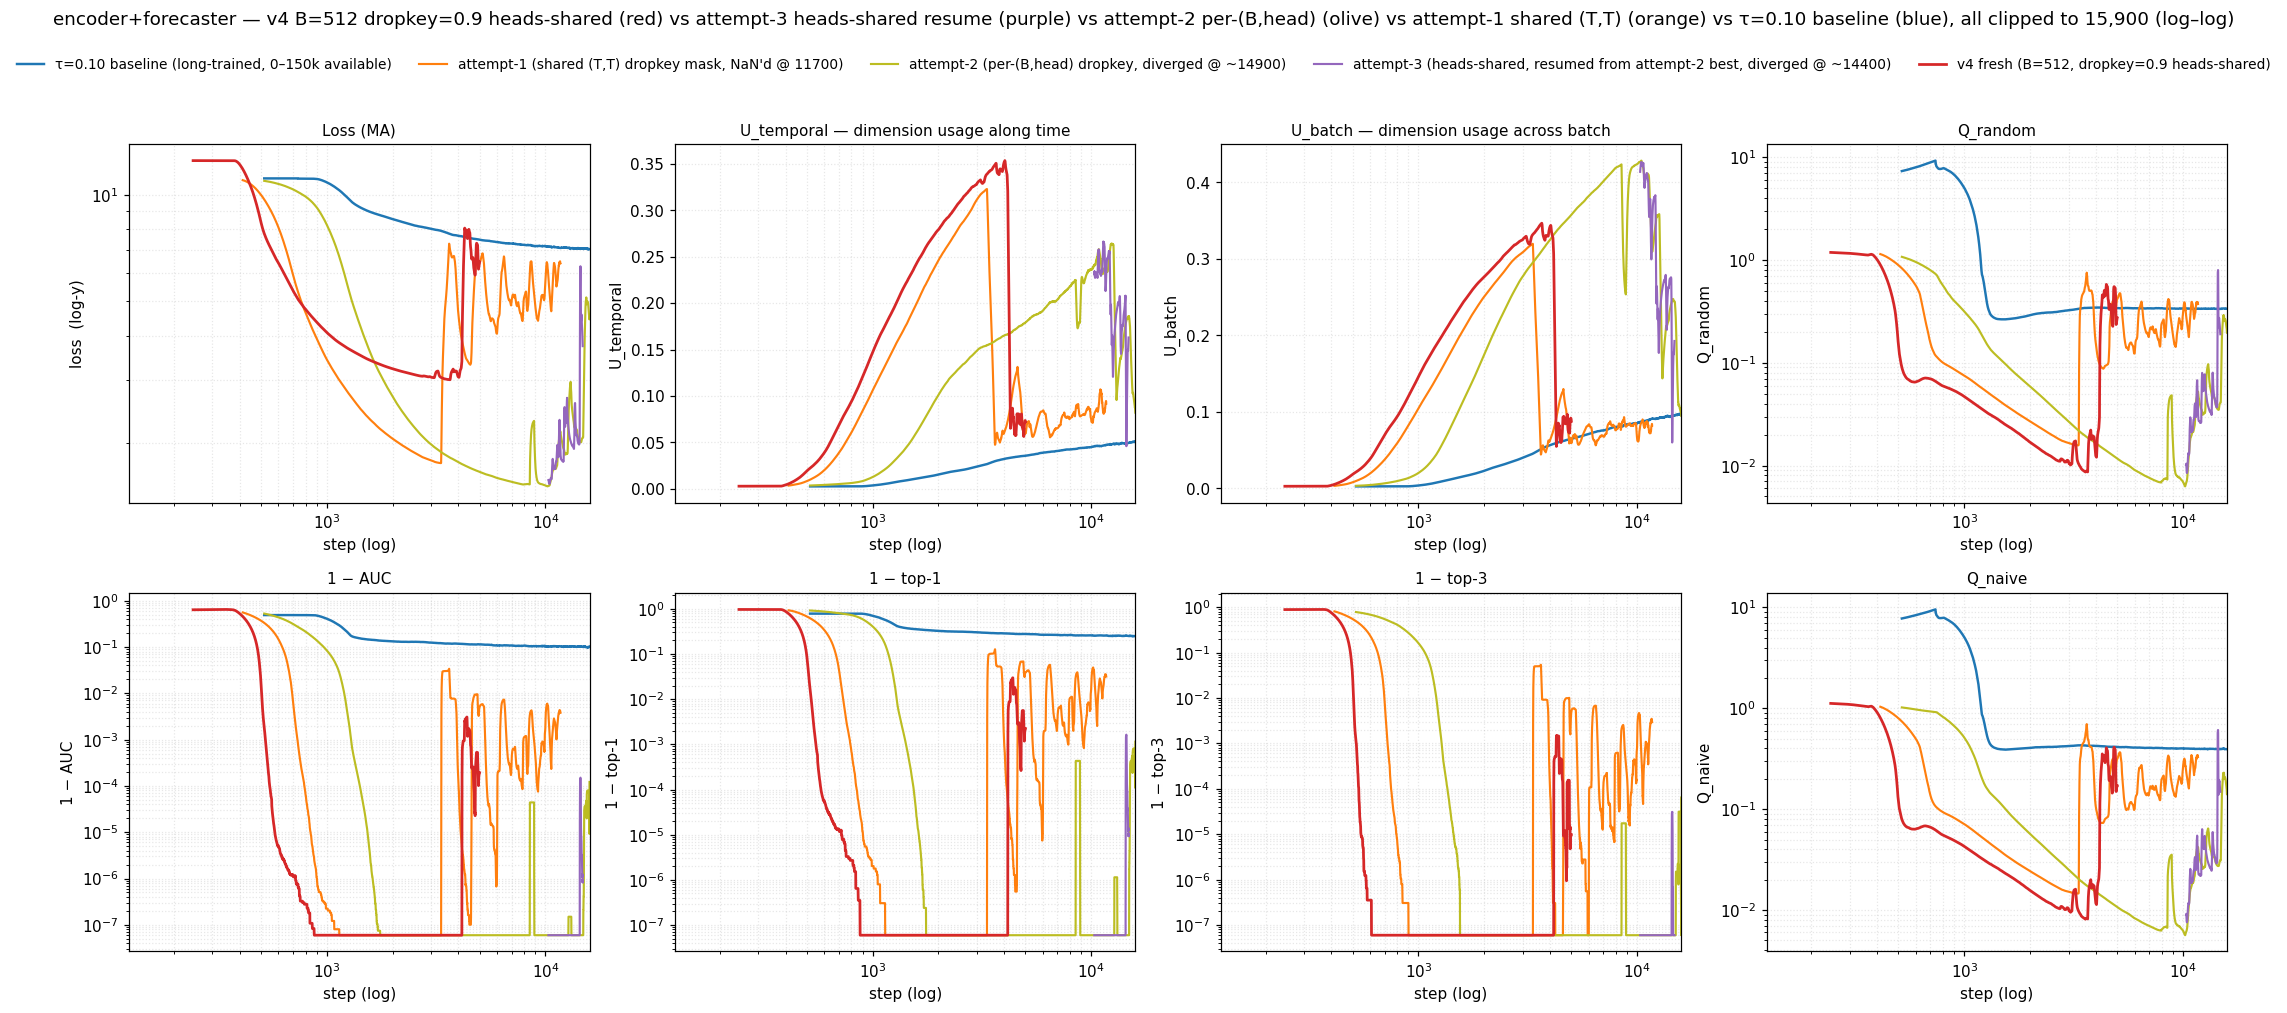
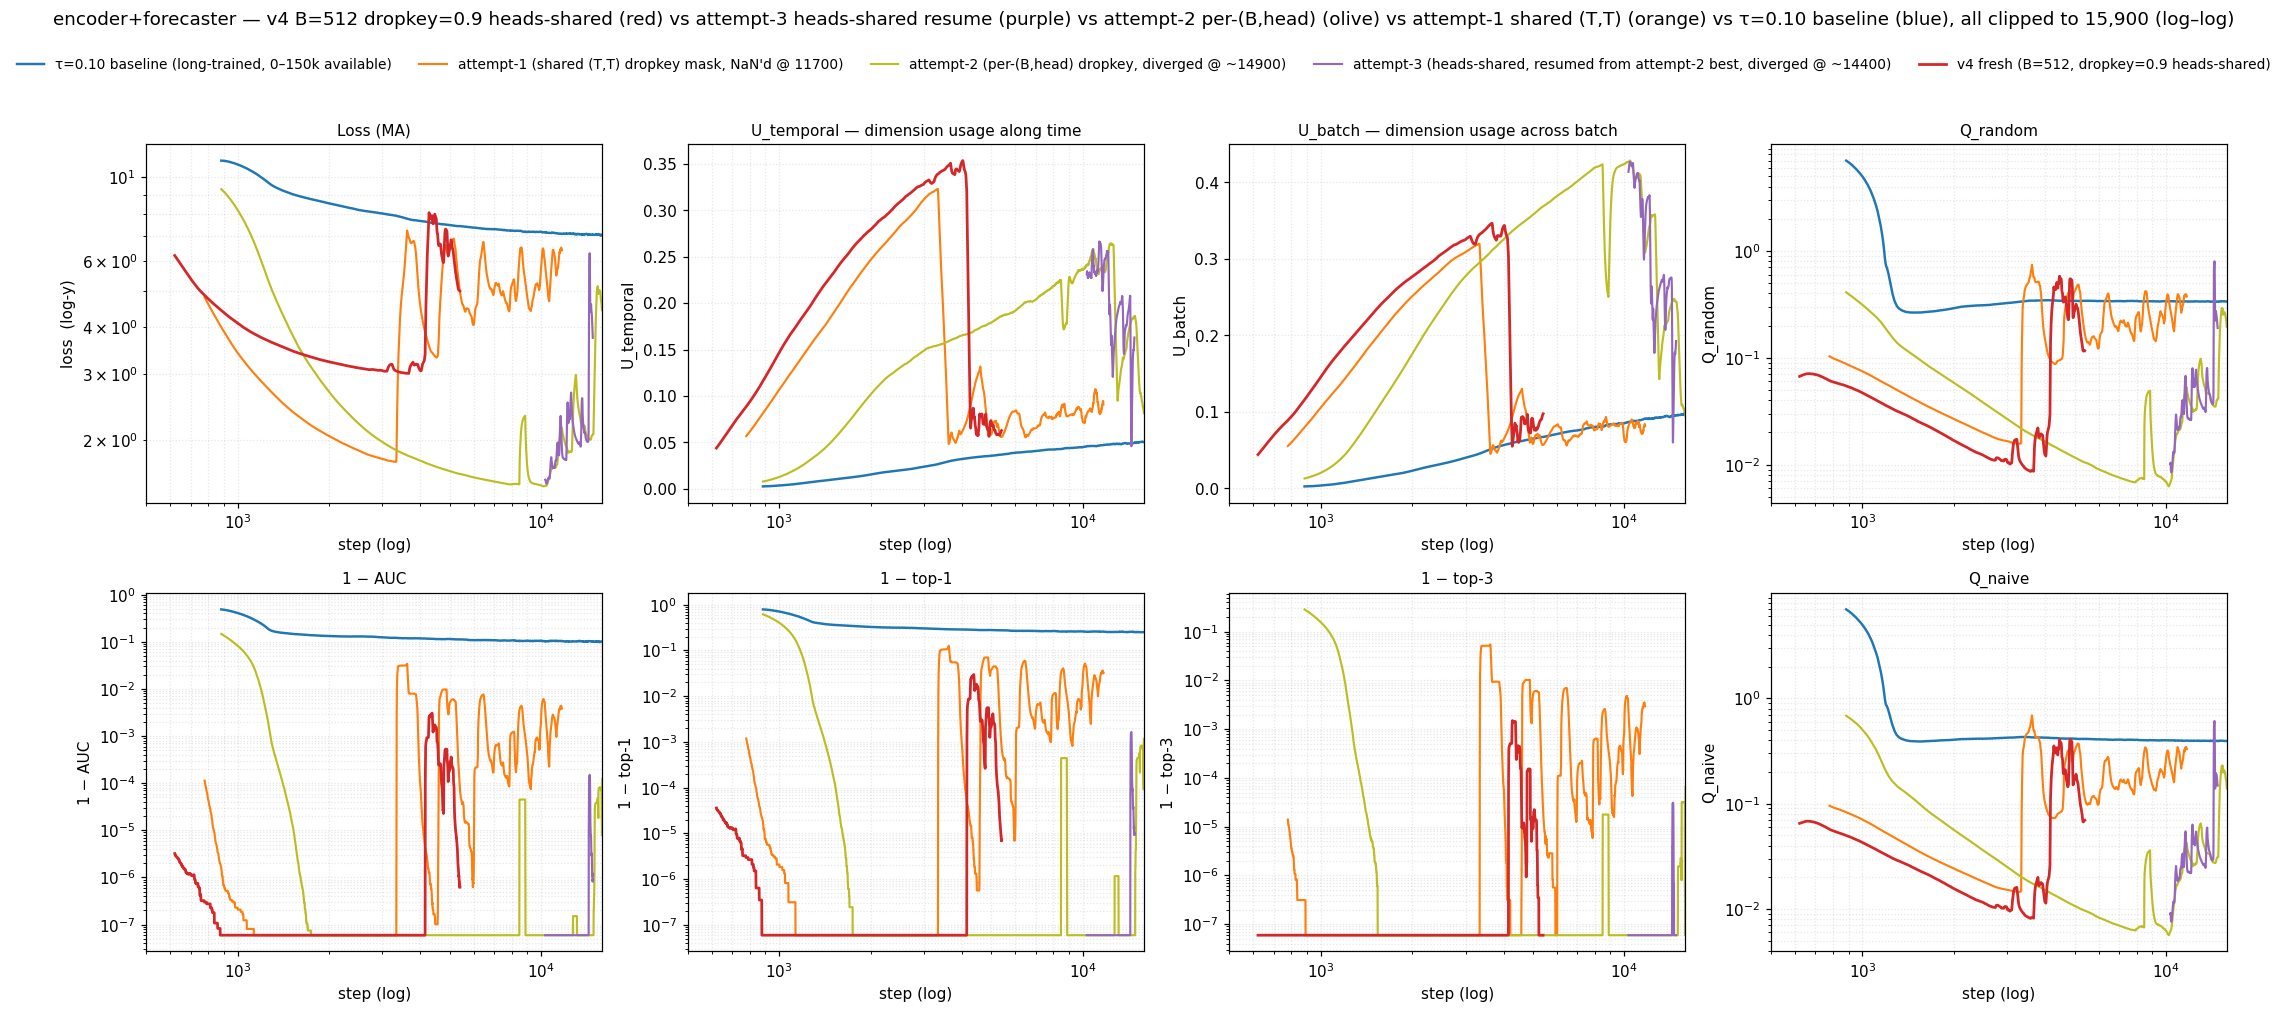
plot(enc-fcst-v4): clamp log-x xmin to 500 — hide noisy <500-step warmup

diff --git a/experiments/2026-05-11_exp_encoder_forecaster/scripts/plot_progress.py b/experiments/2026-05-11_exp_encoder_forecaster/scripts/plot_progress.py
@@ -350,6 +350,9 @@ def main() -> None:
         min(_first_smoothed_step_clipped(new_arm["step"], xmax),
             _first_smoothed_step_clipped(baseline["step"], xmax)),
     )
+    # Hide the noisy <500-step warmup: log-x starts at 500 even if the
+    # smoothing-window math would put it earlier. Linear plot unaffected.
+    first_step = max(first_step, 500)
 
     traj = []
     for arm in ARMS:
@@ -373,6 +376,7 @@ def main() -> None:
 
     print(f"[plot] new-arm max = {new_arm_max}, baseline max = {baseline_max}; "
           f"xmax = min = {xmax}")
+    print(f"[plot] xmax = {xmax}, xmin_log = {first_step}")
 
     render_figure(traj, logx=True,
                   logy_metrics={"loss", "auc", "top1", "top3",
